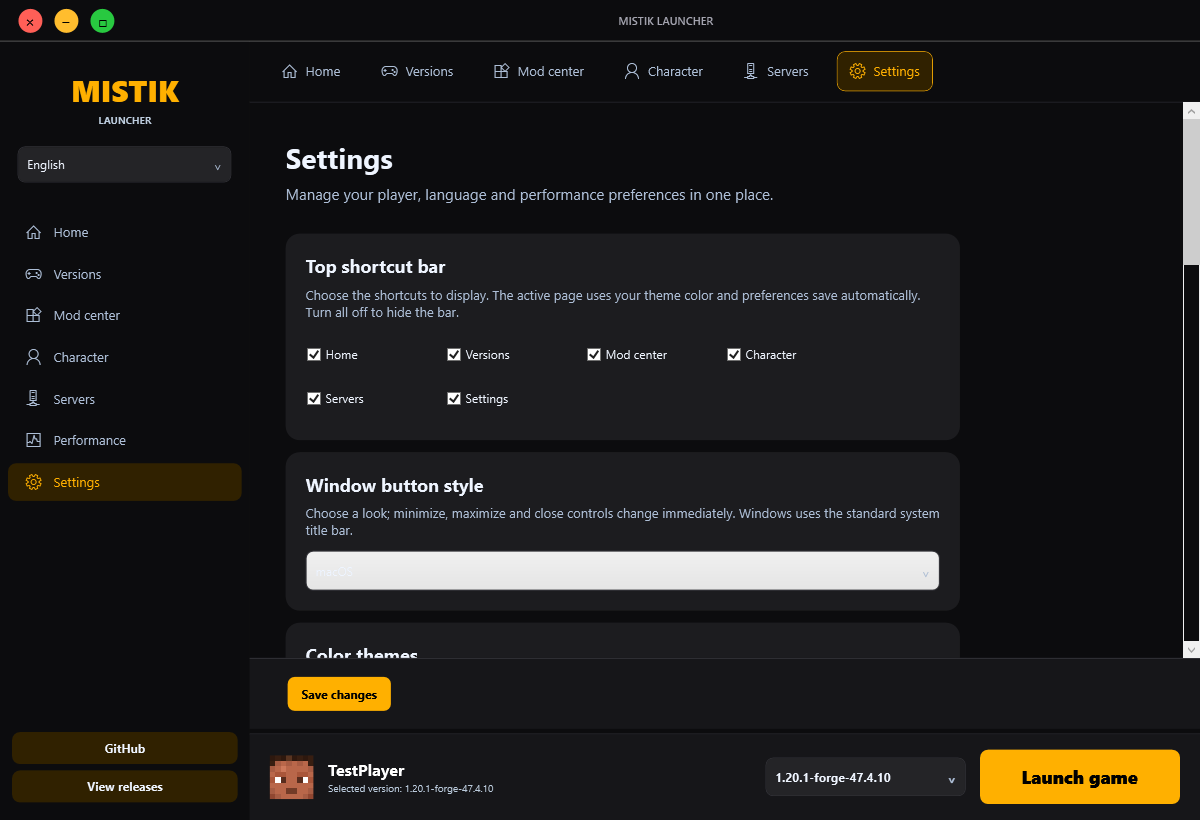
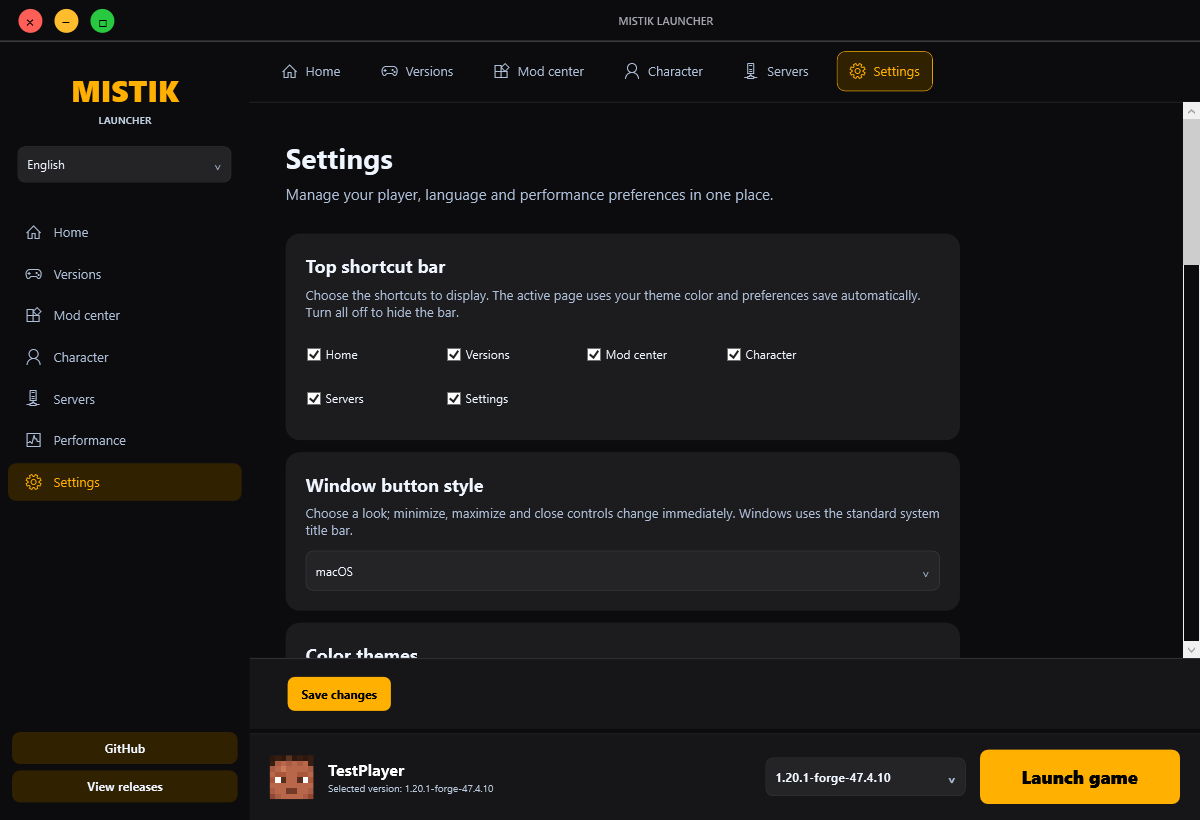
Share theme resources with navigation pages to fix selector contrast

Changed region(s): [[0.2467, 0.6707, 0.8017, 0.7317]]

diff --git a/MistikLauncher/MainWindow.xaml.cs b/MistikLauncher/MainWindow.xaml.cs
@@ -318,6 +318,8 @@ namespace MistikLauncher
             }
 
             page.Resources[typeof(ComboBox)]=FindResource(typeof(ComboBox));
+            foreach(var resource in ColorThemes.Resources) page.Resources[resource.Key]=resource.Value;
+            page.Resources["ThemeActionText"]=ColorThemes.ActionText;
             if(page is ILanguagePage localized) localized.RefreshLanguage();
             MainFrame.Navigate(page);
         }
